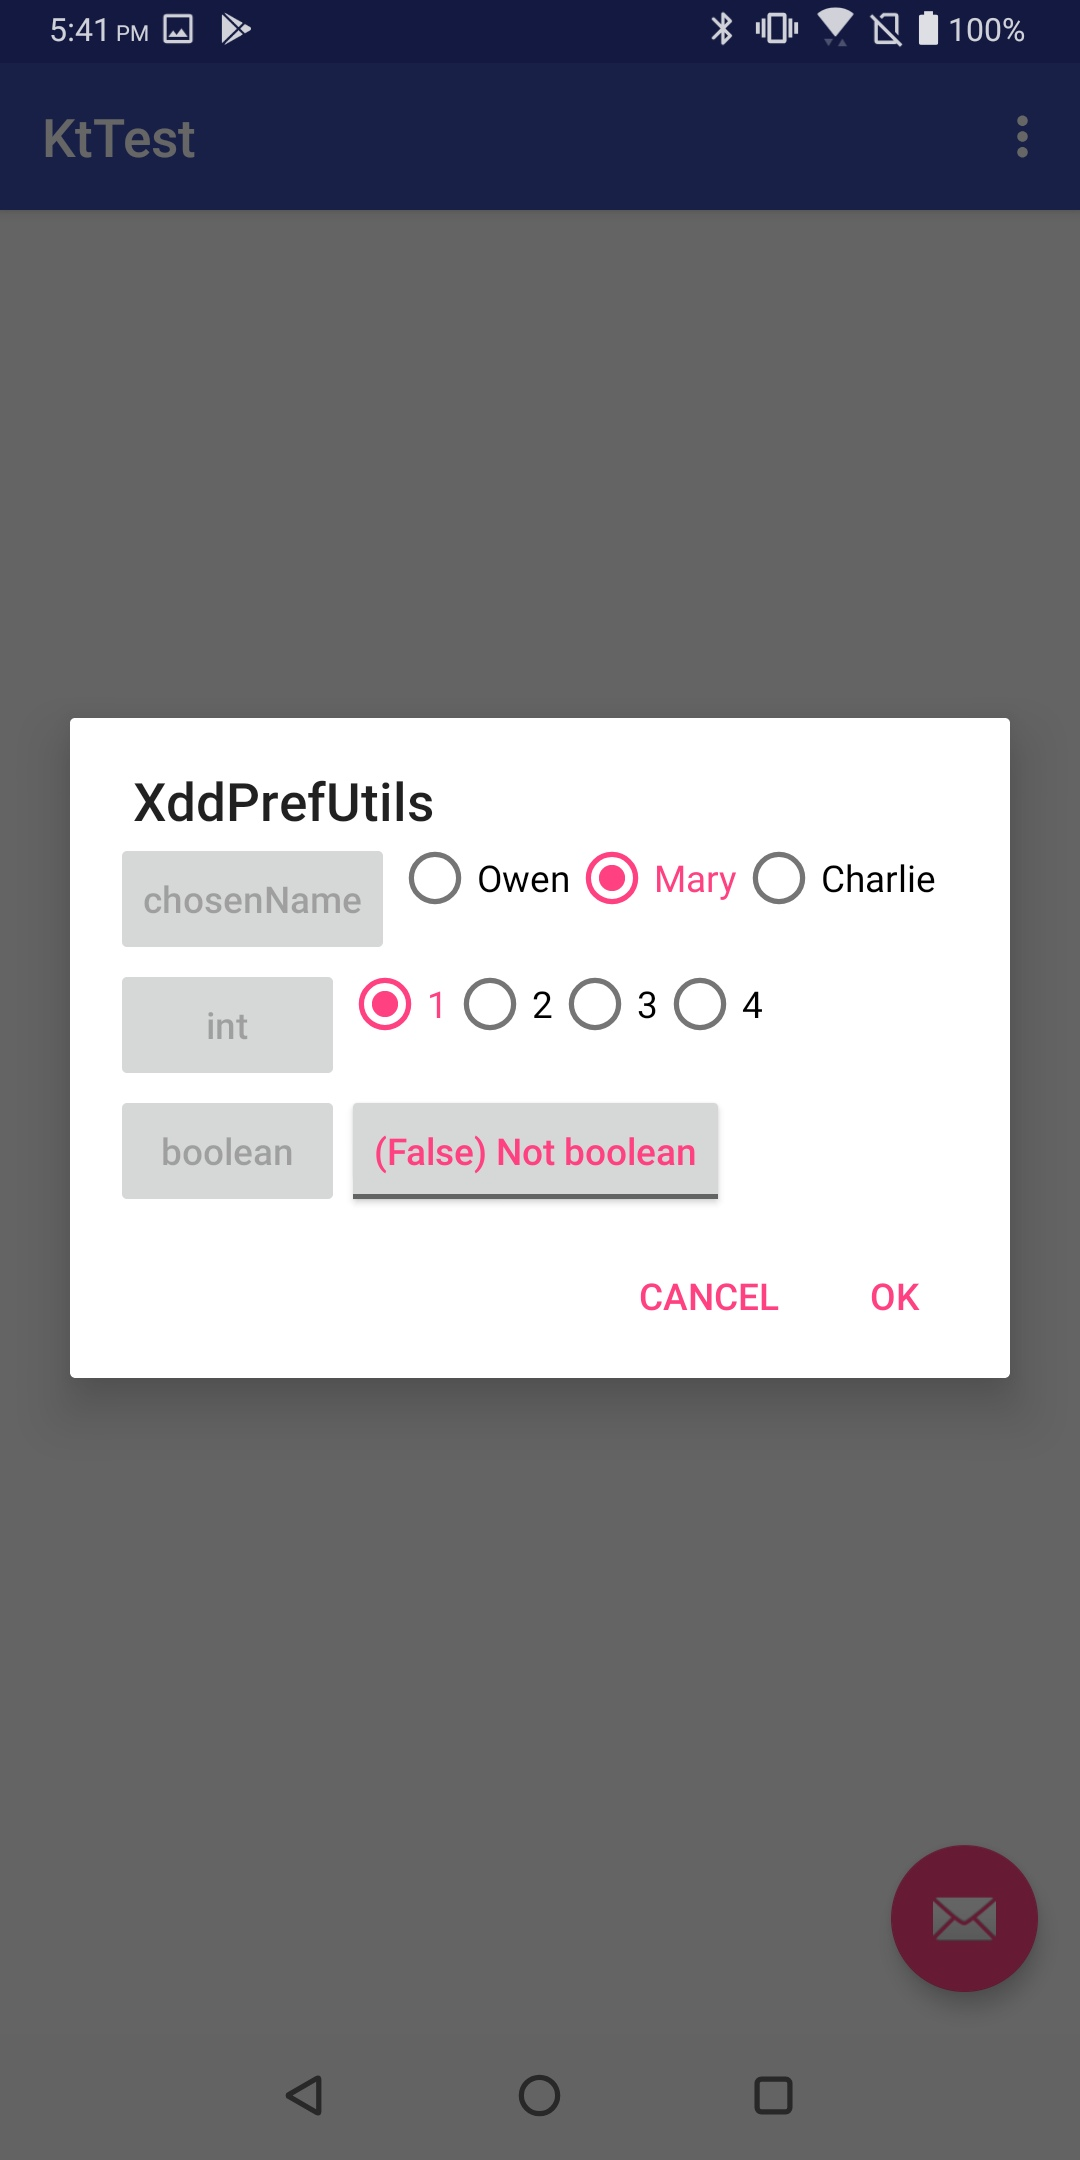
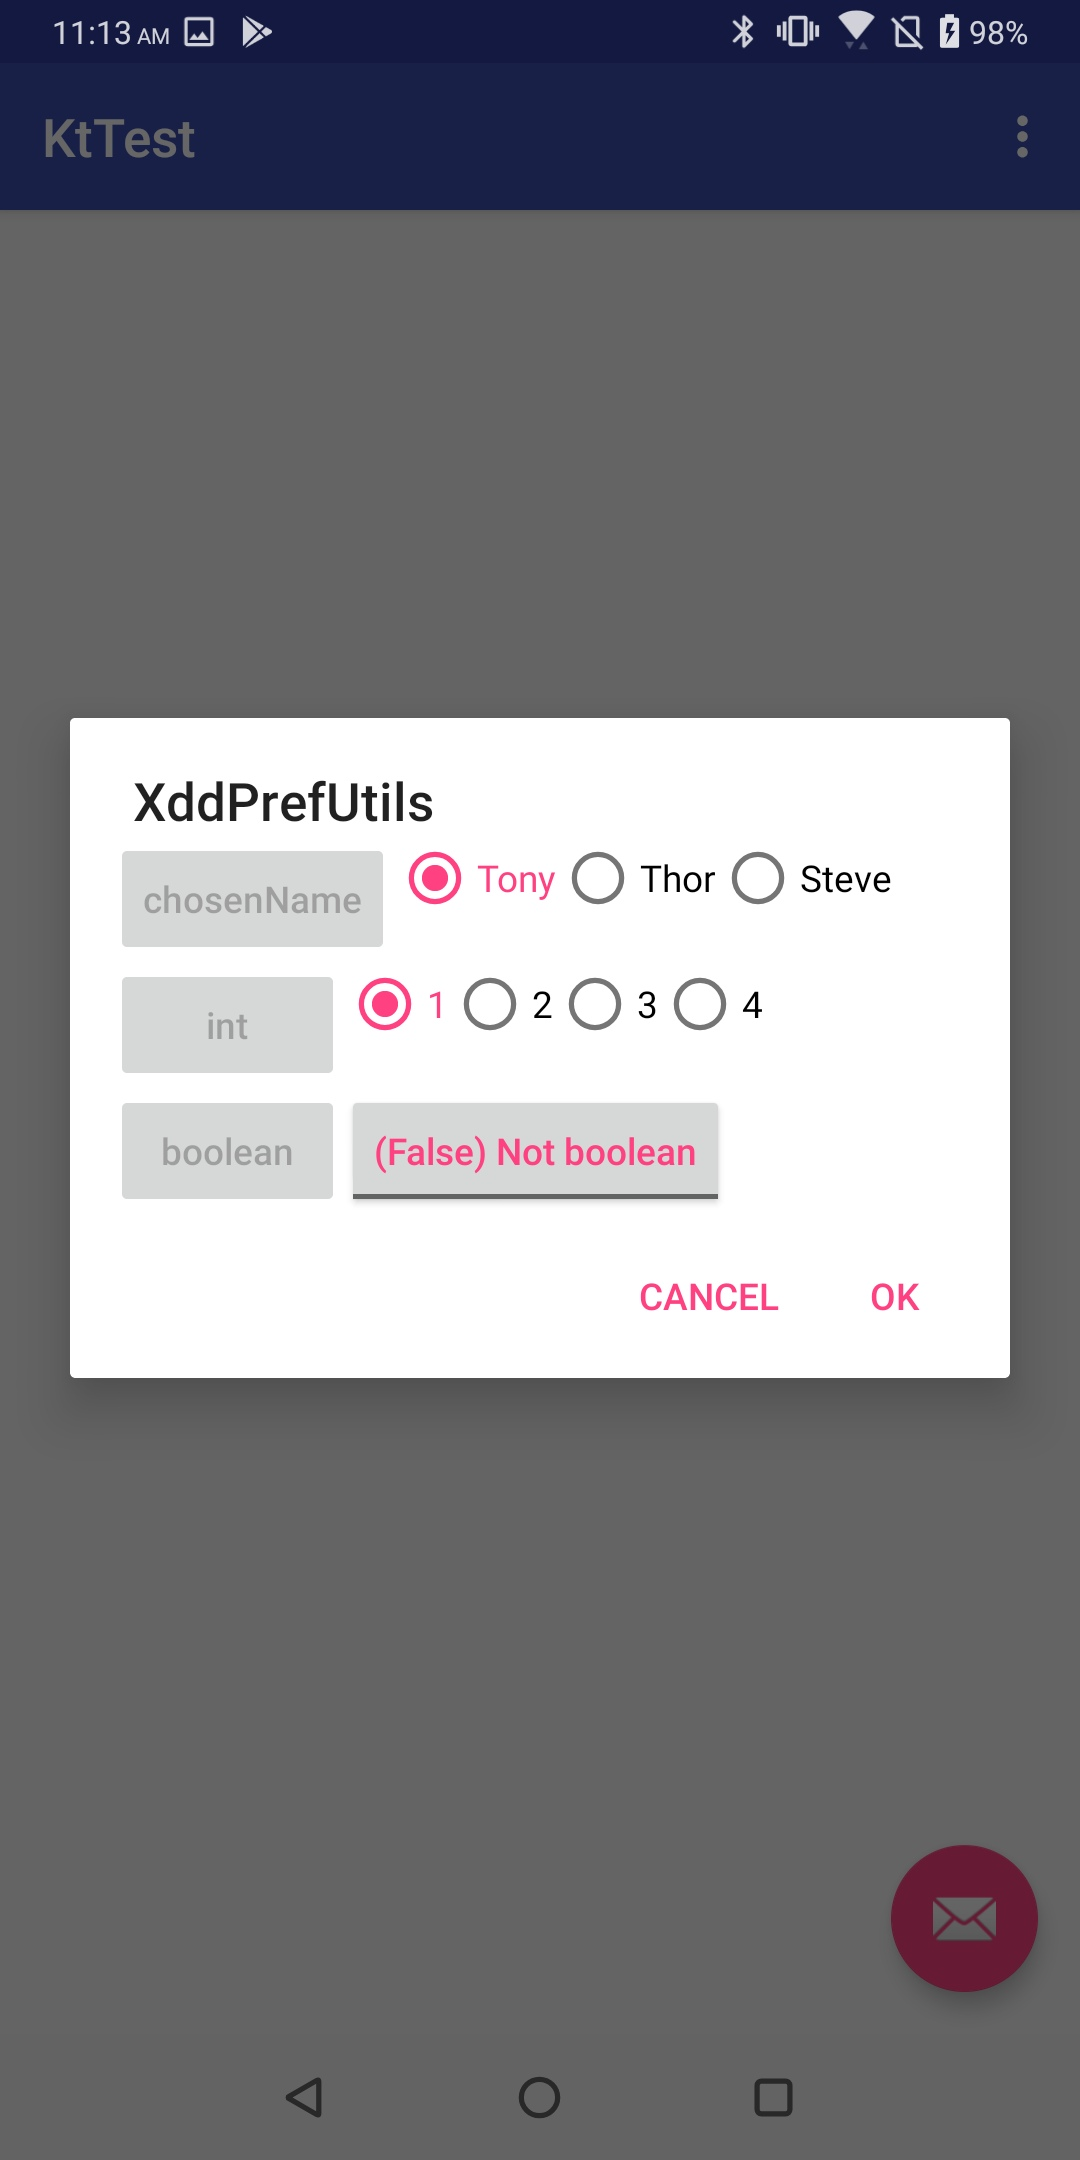
[README] Change XddPref `chosenName` and image asset

diff --git a/README.md b/README.md
@@ -25,7 +25,7 @@ Enhanced log and other utilities for android programming
 - Usages
   - 
   ```
-  private val chosenName = XddPrefEnumData(this/*context*/, "chosenName", "Owen", "Mary", "Charlie")
+  private val chosenName = XddPrefEnumData(this/*context*/, "chosenName", "Tony", "Thor", "Steve")
   private val int = XddPrefEnumData(this/*context*/, "int", 1, 2, 3, 4)
   private val boolean = XddPrefBinaryData(this/*context*/, "boolean")
   
